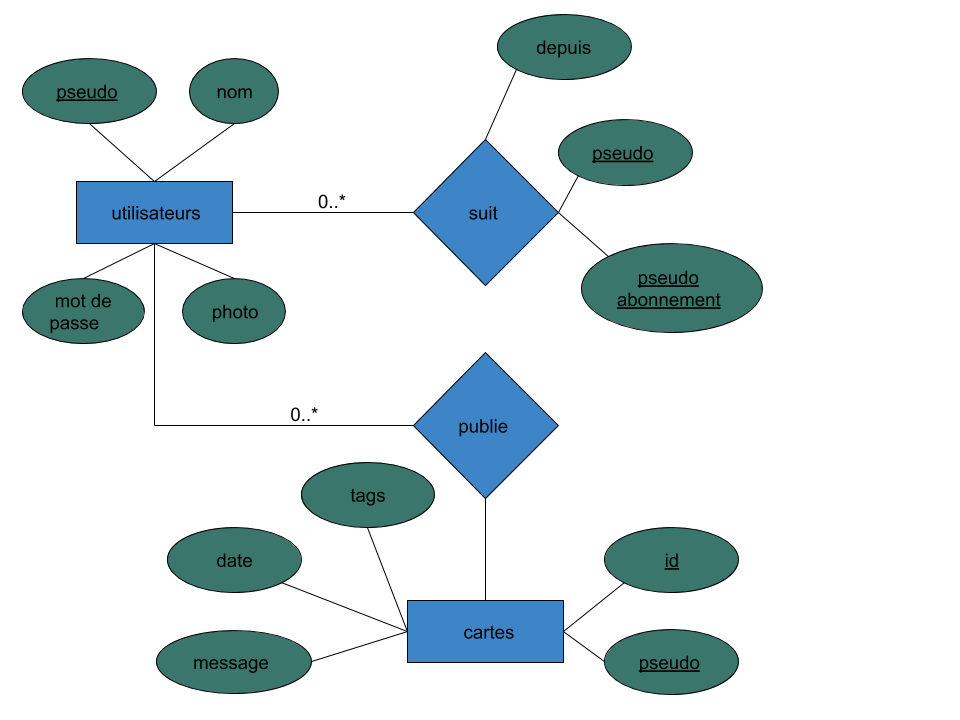
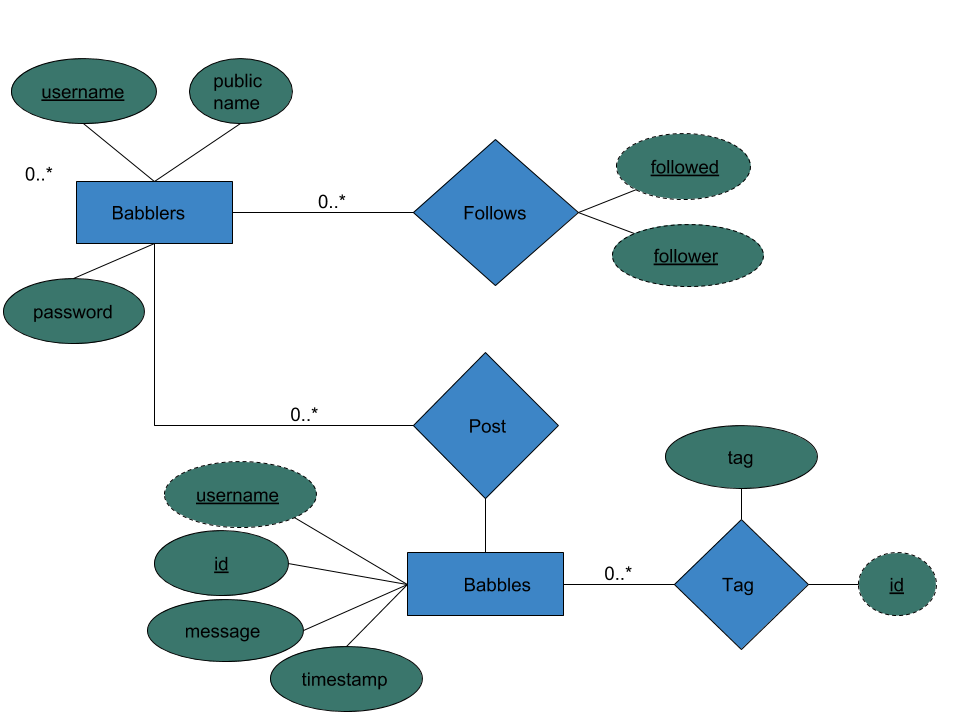
Changed folder structure, spacing in characters of babbles and new ER Diag based on this branch

diff --git a/src/templates/partials/feed.html b/src/templates/partials/feed.html
@@ -15,7 +15,7 @@
                             <a href="/babblers/{{ babble.username }}"><strong>@{{ babble.username }}</strong></a>
                             <small>{{ babble.elapsed }} ago</small>
                         <br>
-                            <div style="white-space:pre-line;">
+                            <div style="white-space: pre-line;letter-spacing: 0.08rem;">
                                 {{ babble.message }}
                             </div>
                         </p>

diff --git a/src/templates/partials/myprofile.html b/src/templates/partials/myprofile.html
@@ -45,7 +45,7 @@
                   <p>
                       <a href="/babblers/{{ babble.username }}"><strong>@{{ babble.username }}</strong></a> <small>{{ babble.elapsed }} ago</small>
                       <br>
-                      <div style="white-space:pre-line;">
+                      <div style="white-space: pre-line;letter-spacing: 0.08rem;">
                       {{ babble.message }}
                       </div>
                       {% for tag in babble.tags %}

diff --git a/src/templates/partials/search_results.html b/src/templates/partials/search_results.html
@@ -17,7 +17,7 @@
                   <p>
                       <a href="/babblers/{{ babble.username }}"><strong>@{{ babble.username }}</strong></a> <small>{{ babble.elapsed }} ago</small>
                       <br>
-                      <div style="white-space:pre-line;">
+                      <div style="white-space: pre-line;letter-spacing: 0.08rem;">
                       {{ babble.message }}
                       </div>
                       {% for tag in babble.tags %}

diff --git a/src/templates/partials/tag_results.html b/src/templates/partials/tag_results.html
@@ -16,7 +16,7 @@
               <p>
                   <a href="/babblers/{{ babble.username }}"><strong>@{{ babble.username }}</strong></a> <small>{{ babble.elapsed }} ago</small>
                   <br>
-                  <div style="white-space:pre-line;">
+                  <div style="white-space: pre-line;letter-spacing: 0.08rem;">
                   {{ babble.message }}
                   </div>
                   {% for tag in babble.tags %}

diff --git a/src/templates/partials/profile.html b/src/templates/partials/profile.html
@@ -81,7 +81,7 @@
                             {{ babble.elapsed }} ago
                         </small>
                         <br>
-                        <div style="white-space:pre-line;">
+                        <div style="white-space: pre-line;letter-spacing: 0.08rem;">
                             {{ babble.message }}
                         </div>
                         {% for tag in babble.tags %}

diff --git a/src/app.py b/src/app.py
@@ -5,8 +5,8 @@ import os
 import shutil
 
 from flask import Flask, render_template, request, session, redirect
-from src.data.babblerdb import BabblerDB
-from src.data.utils import crop_tags_in_message
+from src.babbler.babblerdb import BabblerDB
+from src.babbler.utils import crop_tags_in_message
 
 
 app = Flask(__name__)

diff --git a/data/populate.py b/data/populate.py
@@ -1,6 +1,6 @@
 import shutil
 import os
-from data.babblerdb import BabblerDB
+from src.babbler.babblerdb import BabblerDB
 from random import randint
 from flask import Flask
 from pyfiglet import Figlet

diff --git a/src/babbler/babblerdb.py b/src/babbler/babblerdb.py
@@ -1,5 +1,5 @@
 import pymysql.cursors
-from src.data.utils import get_elapsed_time
+from src.babbler.utils import get_elapsed_time
 
 
 class BabblerDB(object):
